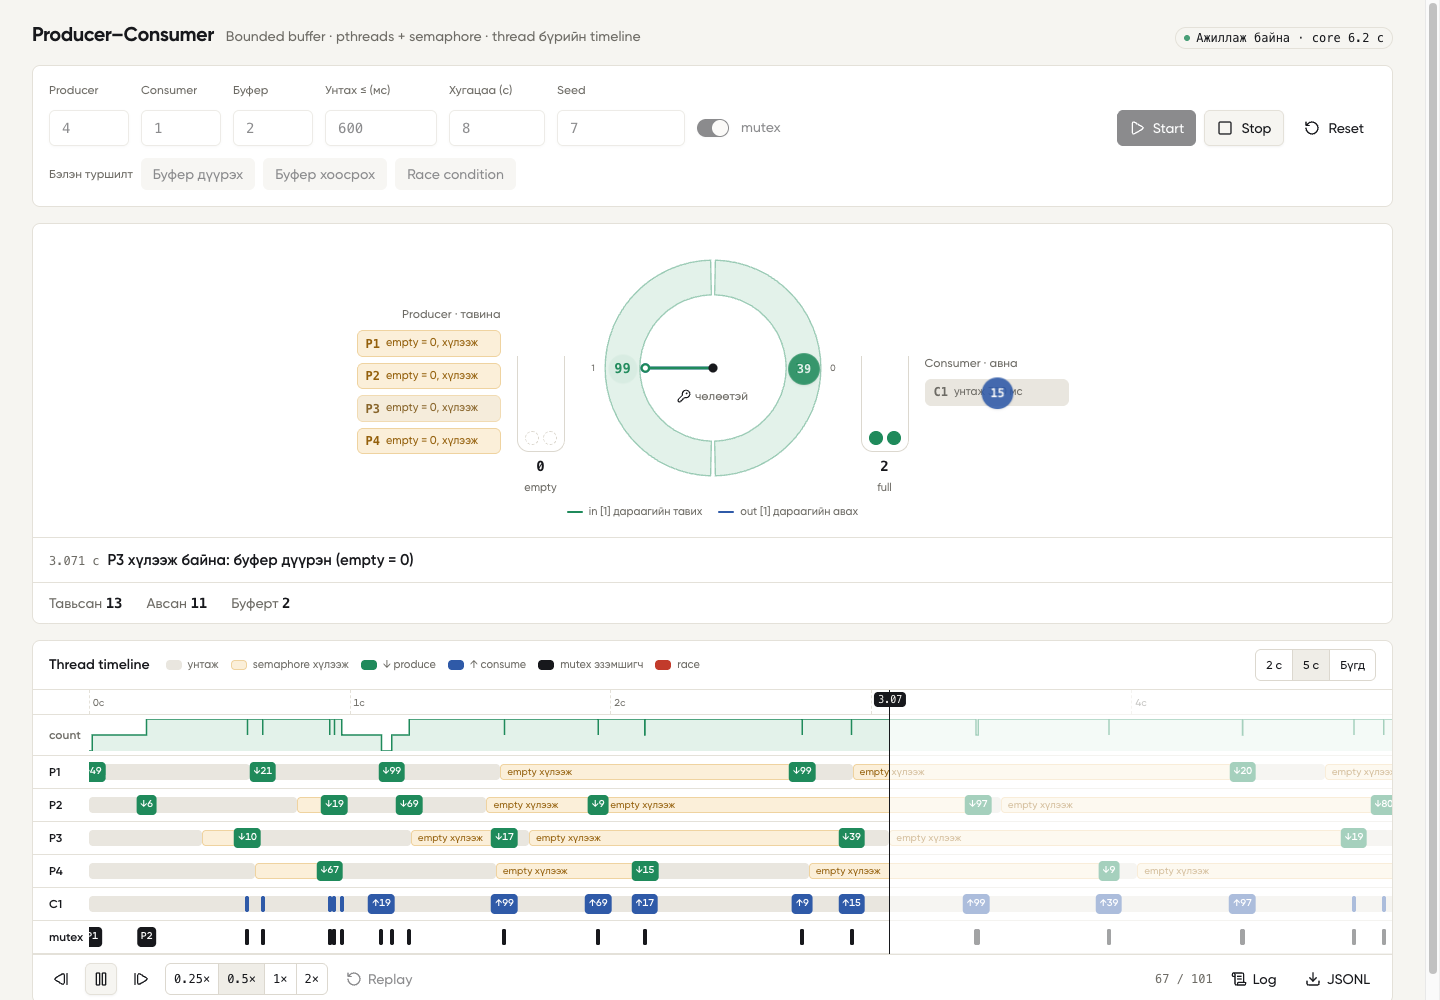
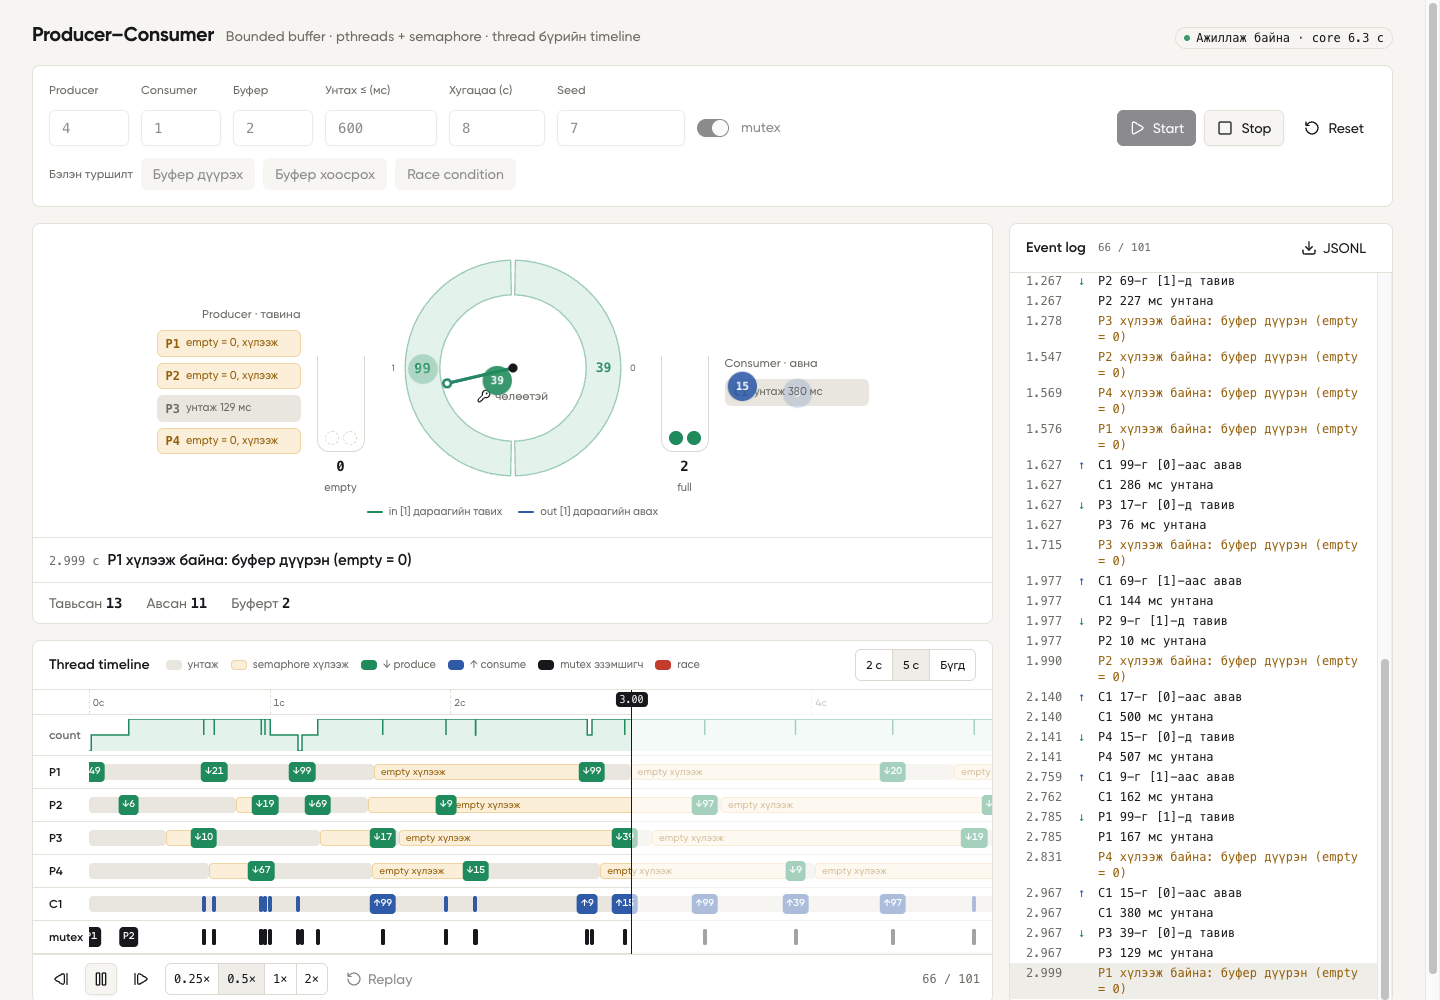
fix: update Manual and screenshots for the event log

diff --git a/docs/Manual.md b/docs/Manual.md
@@ -41,7 +41,8 @@ npm run dev
 - **Stop**: ажиллаж буй C процессыг зогсооно, тэр хүртэлх event-үүд үлдэнэ.
 - **Reset**: run-ийг зогсоож дэлгэцийг цэвэрлэнэ.
 - Timeline дээр **дарж эсвэл чирж** аль ч агшин руу очно. `←` `→` нэг event, `Shift + ←/→` 10 event, `Space` pause/play.
-- Доод мөр: өмнөх / тоглуулах-зогсоох / дараагийн event, **0.25× 0.5× 1× 2×** тоглуулах хурд (анхдагч 0.5×, 1× = бодит хугацаа), **Replay**, **Log** (event-ийн жагсаалт), **JSONL** (бүх event-ийг файлаар татах).
+- Доод мөр: өмнөх / тоглуулах-зогсоох / дараагийн event, **0.25× 0.5× 1× 2×** тоглуулах хурд (анхдагч 0.5×, 1× = бодит хугацаа), **Replay**.
+- **Event log** (өргөн дэлгэц дээр баруун талд, нарийн дэлгэц дээр timeline-ий доор): тоглогдсон event бүр доороос нэмэгдэж, шинэ мөр үргэлж харагдана. Мөр дээр дарж тэр агшин руу очно. **JSONL** товчоор бүх event-ийг файлаар татна.
 - C core бодит хугацаагаар ажилладаг, дэлгэц түүнийг сонгосон хурдаар араас нь тоглуулна. Core илгээсэн боловч хараахан тоглогдоогүй хэсэг timeline дээр бүдэг харагдана.
 - Timeline-ий баруун дээд буланд **2 с / 5 с / Бүгд** цонх: 2 с, 5 с үед timeline playhead-ийг дагаж гүйнэ.
 
@@ -77,7 +78,7 @@ npm run dev
 **Жишээ 3. Race condition** (P=8, C=8, буфер=5, ≤5 мс, 1 с, mutex унтраалттай). Critical section хамгаалалтгүй тул timeline дээр олон улаан тэмдэг гарна. "Эхнийх рүү" дарж эхний race руу очиход доор нь тайлбар гарна, жишээ нь "count = 2, 3 байх ёстой". Зарим run-д төгсгөлд `Invariant БУРУУ` (тавьсан − авсан ≠ буферт) гарна, энэ нь шинэчлэл алдагдсаныг (lost update) баталгаажуулна. Mutex-тэй ижил тохиргоонд race 0 гарна.
 
 ![Race condition](screenshots/web_04_race.png)
-![Race log](screenshots/web_05_race_log.png)
+![Эхний race дээр зогссон үе, Event log](screenshots/web_05_race_log.png)
 
 ### Түгээмэл алдаа ба шийдэл
 | Алдаа | Шалтгаан | Шийдэл |
